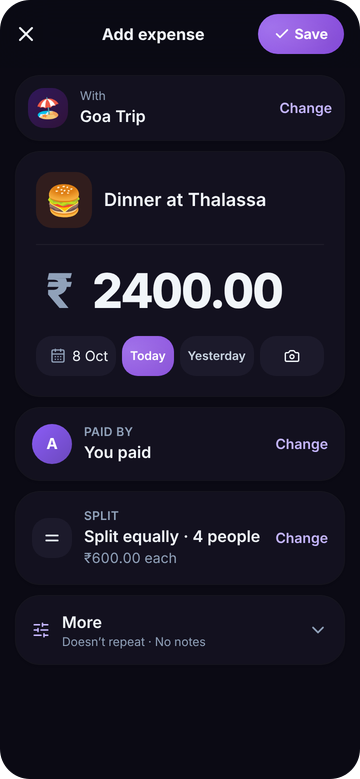
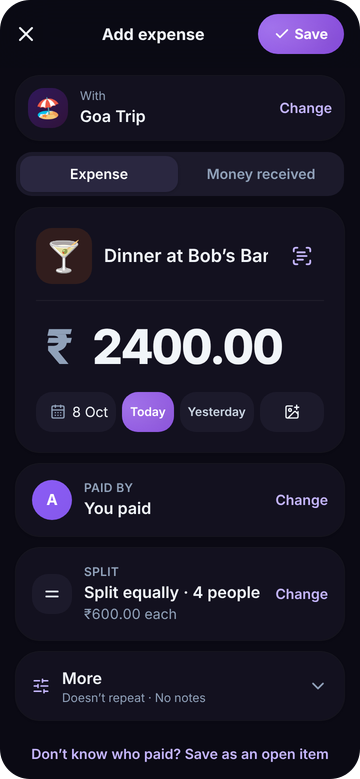
Release 8.4.1: Help screenshots in every theme and accent; Bob's Bar and Toit as examples (#139)
* Release 8.4.1: Help screenshots in every theme and accent; Bob's Bar and Toit as examples

* Help screenshots: build the picture path only from our own accent names

diff --git a/src/lib/icon-pick.test.ts b/src/lib/icon-pick.test.ts
@@ -3,28 +3,28 @@ import { autoPickTitle, EXPENSE_CHOICES, expensePickRequest, groupPickRequest, p
 
 describe('the automatic icon asks AI', () => {
   it('only when offered, needed and the title says enough', () => {
-    expect(autoPickTitle({ title: '  Thalassa  dinner ', offered: true, need: true })).toBe('Thalassa dinner')
+    expect(autoPickTitle({ title: '  Toit  dinner ', offered: true, need: true })).toBe('Toit dinner')
     expect(autoPickTitle({ title: 'ab', offered: true, need: true })).toBeNull()
-    expect(autoPickTitle({ title: 'Thalassa', offered: false, need: true })).toBeNull()
-    expect(autoPickTitle({ title: 'Thalassa', offered: true, need: false })).toBeNull()
+    expect(autoPickTitle({ title: 'Toit', offered: false, need: true })).toBeNull()
+    expect(autoPickTitle({ title: 'Toit', offered: true, need: false })).toBeNull()
     expect(autoPickTitle({ title: 'x'.repeat(200), offered: true, need: true })?.length).toBe(80)
   })
   it('an expense chooses from the whole catalogue, and a category only while it is still Other', () => {
     expect(EXPENSE_CHOICES.length).toBeGreaterThan(50)
     expect(EXPENSE_CHOICES.length).toBeLessThanOrEqual(300)
     expect(new Set(EXPENSE_CHOICES).size).toBe(EXPENSE_CHOICES.length)
-    const open = expensePickRequest('Thalassa', { category: 'other', catTouched: false })
+    const open = expensePickRequest('Toit', { category: 'other', catTouched: false })
     expect(open.categories).toContain('food')
     expect(open.categories).not.toContain('other')
-    expect(expensePickRequest('Thalassa', { category: 'food', catTouched: false }).categories).toBeUndefined()
-    expect(expensePickRequest('Thalassa', { category: 'other', catTouched: true }).categories).toBeUndefined()
+    expect(expensePickRequest('Toit', { category: 'food', catTouched: false }).categories).toBeUndefined()
+    expect(expensePickRequest('Toit', { category: 'other', catTouched: true }).categories).toBeUndefined()
   })
   it('a group chooses from the group icons, and a type only while none was chosen', () => {
     expect(groupPickRequest('Kasol', { typeTouched: false }).types).toEqual(['trip', 'outing', 'event', 'home', 'couple', 'office'])
     expect(groupPickRequest('Kasol', { typeTouched: true }).types).toBeUndefined()
   })
   it('keeps only what was offered', () => {
-    const req = expensePickRequest('Thalassa', { category: 'other', catTouched: false })
+    const req = expensePickRequest('Toit', { category: 'other', catTouched: false })
     const e = EXPENSE_CHOICES[0]
     expect(pickAnswer({ emoji: e, category: 'food' }, req)).toEqual({ emoji: e, category: 'food', type: undefined })
     expect(pickAnswer({ emoji: '🦄🦄', category: 'other' }, req)).toEqual({ emoji: undefined, category: undefined, type: undefined })

diff --git a/src/features/help/HelpShot.tsx b/src/features/help/HelpShot.tsx
@@ -1,13 +1,14 @@
 import { useEffect, useRef } from 'react'
 import { Camera } from 'lucide-react'
-import { type HelpShot, markBox } from '@/lib/help'
+import { type HelpShot, markBox, shotSrc } from '@/lib/help'
 
 /**
  * A section's screenshot from the app (scripts/help-media.mjs), shown as a picture and nothing
  * else: a phone frame labelled Screenshot, nothing in it reacts to a tap, and the step being read
  * is lit by dimming the rest of the picture around its control, with small numbered badges for the
  * others. The steps beside it are what you tap. A tall picture scrolls itself to the lit step. The
- * file loads only when the panel is opened (it isn't in the installed app's first download).
+ * picture matches the person's theme and accent. The file loads only when the panel is opened (it
+ * isn't in the installed app's first download).
  */
 export function HelpShotView({ id, shot, active, still }: { id: string; shot: HelpShot; active: number; still: boolean }) {
   const frame = useRef<HTMLDivElement>(null)
@@ -20,6 +21,9 @@ export function HelpShotView({ id, shot, active, still }: { id: string; shot: He
     f.scrollTo({ top: Math.max(0, el.offsetTop - f.clientHeight / 3), behavior: still ? 'auto' : 'smooth' })
   }, [active, still])
   const shown = shot.marks.find((m) => m.step === active)
+  // The picture in the theme and accent the app is showing right now (set on <html> by theme.ts and accent.ts).
+  const root = typeof document === 'undefined' ? null : document.documentElement
+  const src = shotSrc(id, { dark: !!root?.classList.contains('dark'), accent: root?.getAttribute('data-accent') })
   return (
     <figure className="m-0" data-testid="help-shot">
       <div className="mx-auto max-w-xs rounded-[1.75rem] border-[5px] border-slate-800 bg-slate-800 shadow-lg dark:border-ink-700 dark:bg-ink-700">
@@ -31,16 +35,7 @@ export function HelpShotView({ id, shot, active, still }: { id: string; shot: He
         </div>
         <div ref={frame} className="relative max-h-[24rem] select-none overflow-y-auto rounded-[1.3rem] bg-white" aria-hidden>
           <div className="pointer-events-none relative" style={{ aspectRatio: `${shot.w} / ${shot.h}` }}>
-            <img
-              src={`/help/${id}.webp`}
-              width={shot.w}
-              height={shot.h}
-              alt=""
-              loading="lazy"
-              decoding="async"
-              className="absolute inset-0 h-full w-full"
-              draggable={false}
-            />
+            <img src={src} width={shot.w} height={shot.h} alt="" loading="lazy" decoding="async" className="absolute inset-0 h-full w-full" draggable={false} />
             {shot.marks.map((m) => {
               const b = markBox(m)
               const on = m.step === active

diff --git a/src/lib/help.test.ts b/src/lib/help.test.ts
@@ -1,6 +1,7 @@
 import { describe, expect, it } from 'vitest'
-import { boldParts, clampStep, guideLayout, type HelpShot, markBox, nextStep, plain, relatedOf, searchHelp, STORY_BEATS } from './help'
+import { boldParts, clampStep, guideLayout, type HelpShot, markBox, nextStep, plain, relatedOf, searchHelp, SHOT_ACCENTS, shotSrc, STORY_BEATS } from './help'
 import SHOTS from './help-shots.json'
+import { ACCENTS } from './accent'
 import { CHAPTERS, SECTIONS } from './help-content'
 import { baseOf, findMark, SCENE_MARKS, SCENES } from './help-scenes'
 
@@ -168,7 +169,7 @@ describe('the scenes', () => {
 describe('the screenshots', () => {
   const shots = SHOTS as Record<string, HelpShot>
   const fsModule = 'node:fs'
-  it('belong to sections, mark steps that exist, and have their picture in public/help', async () => {
+  it('belong to sections, mark steps that exist, and have a picture in public/help for every theme and accent', async () => {
     const { existsSync } = (await import(/* @vite-ignore */ fsModule)) as { existsSync: (p: URL) => boolean }
     for (const [id, shot] of Object.entries(shots)) {
       const s = SECTIONS.find((x) => x.id === id)
@@ -179,8 +180,21 @@ describe('the screenshots', () => {
         expect(m.step, id).toBeLessThanOrEqual(s?.steps?.length ?? 0)
         for (const v of [m.x, m.y, m.w, m.h]) expect(v >= 0 && v <= 1, id).toBe(true)
       }
-      expect(existsSync(new URL(`../../public/help/${id}.webp`, import.meta.url)), id).toBe(true)
+      for (const dark of [false, true])
+        for (const accent of SHOT_ACCENTS) {
+          const src = shotSrc(id, { dark, accent })
+          expect(existsSync(new URL(`../../public${src}`, import.meta.url)), src).toBe(true)
+        }
     }
+  })
+  it('the picture follows the theme and accent, and an unknown accent falls back to violet', () => {
+    expect(shotSrc('add-expense', { dark: true, accent: 'ocean' })).toBe('/help/dark/ocean/add-expense.webp')
+    expect(shotSrc('add-expense', { dark: false, accent: 'koi' })).toBe('/help/light/koi/add-expense.webp')
+    expect(shotSrc('add-expense', { dark: false, accent: 'saffron' })).toBe('/help/light/violet/add-expense.webp')
+    expect(shotSrc('add-expense', { dark: true, accent: null })).toBe('/help/dark/violet/add-expense.webp')
+  })
+  it('there are pictures for every accent the app offers', () => {
+    expect([...SHOT_ACCENTS].sort()).toEqual(ACCENTS.map((a) => a.id).sort())
   })
   it('a marker’s outline is the part with room around it, inside the picture', () => {
     expect(markBox({ step: 1, x: 0.5, y: 0.5, w: 0.2, h: 0.1 })).toEqual({ left: 38.8, top: 43.2, width: 22.4, height: 13.6 })

diff --git a/src/lib/expense-draft.test.ts b/src/lib/expense-draft.test.ts
@@ -380,10 +380,10 @@ describe('the expense icon', () => {
   })
   it('the automatic icon’s AI pick: for this description only, saved marked as automatic', () => {
     let d = reduce(seed(), { type: 'amount', amount: 1200 })
-    d = reduce(d, { type: 'description', value: 'Thalassa', history: [] })
+    d = reduce(d, { type: 'description', value: 'Toit', history: [] })
     // an answer for a title typed over is ignored
     expect(reduce(d, { type: 'autoPick', title: 'Thal', icon: '🍽' })).toBe(d)
-    d = reduce(d, { type: 'autoPick', title: 'Thalassa', icon: '🍽', category: 'food' })
+    d = reduce(d, { type: 'autoPick', title: 'Toit', icon: '🍽', category: 'food' })
     expect(d.autoIcon).toBe('🍽')
     expect(d.category).toBe('food')
     expect(needsAutoPick(d)).toBe(false)
@@ -395,16 +395,16 @@ describe('the expense icon', () => {
     const chosen = toExpense(reduce(d, { type: 'icon', icon: '🦄' }), save).expense
     expect([chosen.icon, chosen.iconAuto]).toEqual(['🦄', undefined])
     // typing drops the pick
-    expect('autoIcon' in reduce(d, { type: 'description', value: 'Thalassa 2', history: [] })).toBe(false)
+    expect('autoIcon' in reduce(d, { type: 'description', value: 'Toit 2', history: [] })).toBe(false)
     // an edit of an automatic pick starts on Automatic
     const again = seed({ existing: expense({ icon: '🍽', iconAuto: true }) })
     expect([again.icon, again.autoIcon]).toEqual([undefined, '🍽'])
   })
   it('the AI’s category only while the category is still the app’s Other', () => {
-    let d = reduce(seed(), { type: 'description', value: 'Thalassa', history: [] })
+    let d = reduce(seed(), { type: 'description', value: 'Toit', history: [] })
     d = reduce(d, { type: 'category', category: 'travel' })
-    expect(reduce(d, { type: 'autoPick', title: 'Thalassa', icon: '🍽', category: 'food' }).category).toBe('travel')
-    expect(reduce(d, { type: 'autoPick', title: 'Thalassa', category: 'nope' as never }).category).toBe('travel')
+    expect(reduce(d, { type: 'autoPick', title: 'Toit', icon: '🍽', category: 'food' }).category).toBe('travel')
+    expect(reduce(d, { type: 'autoPick', title: 'Toit', category: 'nope' as never }).category).toBe('travel')
   })
   it('asks only when nothing is chosen and the app’s own rules find nothing', () => {
     const d = seed()

diff --git a/src/lib/recents.test.ts b/src/lib/recents.test.ts
@@ -91,23 +91,23 @@ describe('description suggestions', () => {
     ex('2', 'dinner ', '2026-09-20', { category: 'food' }),
     ex('3', 'Dinner', '2026-10-01', { category: 'food' }),
     ex('4', 'Petrol', '2026-10-07', { category: 'transport' }),
-    ex('5', 'Dinner at Thalassa', '2026-10-06', { category: 'food' }),
+    ex('5', 'Dinner at Bob’s Bar', '2026-10-06', { category: 'food' }),
     ex('6', 'Wifi', '2025-01-01', { category: 'utilities' }),
     ex('7', 'Gone', '2026-10-07', { deletedAt: 1 }),
   ]
   const h = descriptionHistory(list)
 
   it('groups case-insensitively, frequent and recent first, skipping trashed', () => {
-    expect(h.map((s) => s.description)).toEqual(['Dinner', 'Petrol', 'Dinner at Thalassa', 'Wifi'])
+    expect(h.map((s) => s.description)).toEqual(['Dinner', 'Petrol', 'Dinner at Bob’s Bar', 'Wifi'])
     expect(h[0].count).toBe(3)
     expect(h[0].last.id).toBe('3')
   })
 
   it('suggests prefix and word matches, not what is already typed', () => {
     expect(suggestDescriptions(h, '').length).toBe(4)
-    expect(suggestDescriptions(h, 'din').map((s) => s.description)).toEqual(['Dinner', 'Dinner at Thalassa'])
-    expect(suggestDescriptions(h, 'dinner').map((s) => s.description)).toEqual(['Dinner at Thalassa'])
-    expect(suggestDescriptions(h, 'thal').map((s) => s.description)).toEqual(['Dinner at Thalassa'])
+    expect(suggestDescriptions(h, 'din').map((s) => s.description)).toEqual(['Dinner', 'Dinner at Bob’s Bar'])
+    expect(suggestDescriptions(h, 'dinner').map((s) => s.description)).toEqual(['Dinner at Bob’s Bar'])
+    expect(suggestDescriptions(h, 'bob').map((s) => s.description)).toEqual(['Dinner at Bob’s Bar'])
   })
 
   it('knows the category used for a description', () => {

diff --git a/src/lib/help-scenes.ts b/src/lib/help-scenes.ts
@@ -476,7 +476,7 @@ Object.assign(SCENES, {
       {
         kind: 'list',
         items: [
-          { label: 'Dinner at Thalassa', icon: '🍽' },
+          { label: 'Dinner at Bob’s Bar', icon: '🍽' },
           { label: 'Scooter rental', icon: '🛵' },
         ],
       },
@@ -622,7 +622,7 @@ Object.assign(SCENES, {
     ]),
   ],
   'edit-delete-expense': [
-    settings('Dinner at Thalassa', [
+    settings('Dinner at Bob’s Bar', [
       { kind: 'chips', mark: 'top', items: [{ label: '⧉ Add again' }, { label: '✎ Edit' }, { label: '🗑 Delete' }] },
       { kind: 'row', label: 'Paid by Asha', value: '₹3,240' },
       { kind: 'row', label: 'Split equally', value: '3 people' },
@@ -661,12 +661,12 @@ Object.assign(SCENES, {
     ]),
   ],
   'comments-flags': [
-    settings('Dinner at Thalassa', [
+    settings('Dinner at Bob’s Bar', [
       { kind: 'message', label: 'Rahul', value: 'Did this include the drinks?' },
       { kind: 'field', label: 'Add a comment', value: 'Yes, all of them', mark: 'comment' },
       { kind: 'button', label: 'Flag a problem', mark: 'flag' },
     ]),
-    settings('Dinner at Thalassa', [
+    settings('Dinner at Bob’s Bar', [
       { kind: 'row', label: 'Flagged · still counted', value: 'Meera: I wasn’t there' },
       { kind: 'button', label: 'Resolve my flag', primary: true, mark: 'resolve' },
     ]),

diff --git a/e2e/smoke.spec.ts b/e2e/smoke.spec.ts
@@ -242,7 +242,7 @@ test('the + button opens the Create sheet; Add expense saves an equal split', as
   await sheet.getByTestId('create-expense').click()
   await expect(page).toHaveURL(/\/add\?group=g_goa/)
   await expect(page.getByText('Goa Trip', { exact: true })).toBeVisible()
-  await page.getByRole('textbox', { name: 'Description', exact: true }).fill('Dinner at Thalassa')
+  await page.getByRole('textbox', { name: 'Description', exact: true }).fill('Dinner at Bob’s Bar')
   await amountField(page).fill('1200')
   await page
     .getByRole('button', { name: /^(Save|Add expense)$/ })
@@ -250,7 +250,7 @@ test('the + button opens the Create sheet; Add expense saves an equal split', as
     .click()
   await expect(page).toHaveURL(/\/groups\/g_goa$/)
   // The list re-renders from the shared store once the demo repo commits; give a loaded CI box time.
-  await expect(page.getByText('Dinner at Thalassa')).toBeVisible({ timeout: 15_000 })
+  await expect(page.getByText('Dinner at Bob’s Bar')).toBeVisible({ timeout: 15_000 })
 })
 
 test('Money received: shared like an expense, shown as received, and the receiver passes it on', async ({ page }) => {

diff --git a/vite.config.ts b/vite.config.ts
@@ -165,8 +165,12 @@ export default defineConfig(({ mode }) => {
           // icons are fetched only by an install, never by the app.
           globIgnores: ['tesseract/**', 'icons/**'],
           runtimeCaching: [
-            // Help's screenshots (public/help/*.webp) aren't in the first download; each is kept once seen, for offline.
-            { urlPattern: /\/help\/[a-z0-9-]+\.webp$/, handler: 'CacheFirst', options: { cacheName: 'help-shots', expiration: { maxEntries: 120 } } },
+            // Help's screenshots (public/help/<theme>/<accent>/*.webp) aren't in the first download; each is kept once seen, for offline.
+            {
+              urlPattern: /\/help\/(light|dark)\/[a-z]+\/[a-z0-9-]+\.webp$/,
+              handler: 'CacheFirst',
+              options: { cacheName: 'help-shots', expiration: { maxEntries: 120 } },
+            },
             { urlPattern: /\/tesseract\/[^/]+\.(?:js|wasm)$/, handler: 'CacheFirst', options: { cacheName: 'tesseract', expiration: { maxEntries: 10 } } },
             {
               urlPattern: /^https:\/\/cdn\.jsdelivr\.net\/npm\/@tesseract\.js-data\//,

diff --git a/src/lib/help.ts b/src/lib/help.ts
@@ -136,6 +136,19 @@ export function relatedOf(s: HelpSection, sections: HelpSection[]): HelpSection[
   return (s.related ?? []).map((id) => sections.find((x) => x.id === id)).filter((x): x is HelpSection => !!x)
 }
 
+/** Help's screenshots come in every theme and accent the app has (scripts/help-media.mjs). */
+export const SHOT_ACCENTS = ['violet', 'ocean', 'neon', 'berry', 'koi', 'gold', 'graphite'] as const
+
+/**
+ * Which picture of a section's screen to show: the one in the person's own theme and accent, so
+ * the screenshot looks like their app. An accent the pictures don't have falls back to violet.
+ */
+export function shotSrc(id: string, o: { dark: boolean; accent: string | null | undefined }): string {
+  // The name comes from the page (<html data-accent>); the URL only ever gets one of our own constants.
+  const accent = SHOT_ACCENTS.find((a) => a === o.accent) ?? 'violet'
+  return `/help/${o.dark ? 'dark' : 'light'}/${accent}/${id}.webp`
+}
+
 /** One screenshot in Help (scripts/help-media.mjs writes them): its size and a marker per step. */
 export interface HelpShot {
   w: number

diff --git a/functions/src/lib/icon-ai.test.ts b/functions/src/lib/icon-ai.test.ts
@@ -55,9 +55,9 @@ describe('reading the plain-text answer', () => {
 })
 
 describe('the automatic icon’s AI pick', () => {
-  const r = cleanPickRequest({ title: ' Thalassa <b>', kind: 'expense', choices: ['🍽', '🍕', 'pizza', '🍕', '🚕'], categories: ['food', 'transport', 'Bad!'] })
+  const r = cleanPickRequest({ title: ' Toit <b>', kind: 'expense', choices: ['🍽', '🍕', 'pizza', '🍕', '🚕'], categories: ['food', 'transport', 'Bad!'] })
   it('keeps a clean title and only lists it can trust', () => {
-    expect(r).toEqual({ title: 'Thalassa b', kind: 'expense', choices: ['🍽', '🍕', '🚕'], categories: ['food', 'transport'] })
+    expect(r).toEqual({ title: 'Toit b', kind: 'expense', choices: ['🍽', '🍕', '🚕'], categories: ['food', 'transport'] })
     expect(cleanPickRequest({ title: 'x', choices: ['pizza'] })).toBeNull()
     expect(cleanPickRequest({ title: ' ', choices: ['🍕'] })).toBeNull()
     expect(cleanPickRequest({ title: 'x', choices: Array.from({ length: 400 }, (_, i) => String.fromCodePoint(0x1f300 + i)) })?.choices.length).toBe(300)

diff --git a/shared/vault-crypto.test.ts b/shared/vault-crypto.test.ts
@@ -20,12 +20,12 @@ const other = btoa(String.fromCharCode(...new Array(32).fill(9)))
 describe('vault tokens', () => {
   it('round-trips text, unicode included, and is the same token for the same text', async () => {
     const k = await vaultKey('g1', dek)
-    const t = await sealText(k, 'Dinner at Thalassa 🍽 — दाल')
+    const t = await sealText(k, 'Dinner at Bob’s Bar 🍽 — दाल')
     expect(isToken(t)).toBe(true)
     expect(t).not.toContain('Dinner')
-    expect(await openToken(k, t)).toBe('Dinner at Thalassa 🍽 — दाल')
-    expect(await sealText(k, 'Dinner at Thalassa 🍽 — दाल')).toBe(t)
-    expect(await sealText(k, 'Dinner at Thalassa')).not.toBe(t)
+    expect(await openToken(k, t)).toBe('Dinner at Bob’s Bar 🍽 — दाल')
+    expect(await sealText(k, 'Dinner at Bob’s Bar 🍽 — दाल')).toBe(t)
+    expect(await sealText(k, 'Dinner at Bob’s Bar')).not.toBe(t)
     expect(await sealText(k, '')).toBe('')
   })
   it('opens only with the same group and key', async () => {

diff --git a/functions/src/lib/icon-ai.ts b/functions/src/lib/icon-ai.ts
@@ -131,7 +131,7 @@ export const pickPrompt = (
 Choose exactly one emoji from this list, copied exactly: ${r.choices.join(' ')}
 ${r.categories ? `Also choose its category, one of: ${r.categories.join(', ')}.\n` : ''}${r.types ? `Also choose the group's type, one of: ${r.types.join(', ')}.\n` : ''}Answer with one line and nothing else, in this shape:
 EMOJI <emoji>${r.categories ? ' CATEGORY <category>' : ''}${r.types ? ' TYPE <type>' : ''}
-Pick what the title is most likely about (for "Thalassa" a Greek restaurant: 🍽 food). If nothing in the list fits at all, answer: EMOJI none`
+Pick what the title is most likely about (for "Toit", a brewpub: 🍽 food). If nothing in the list fits at all, answer: EMOJI none`
 
 /** The one-line answer, kept only where it names something from the lists sent. */
 export function parsePick(text: string, r: IconPickRequest): { emoji: string | null; category?: string; type?: string } {
